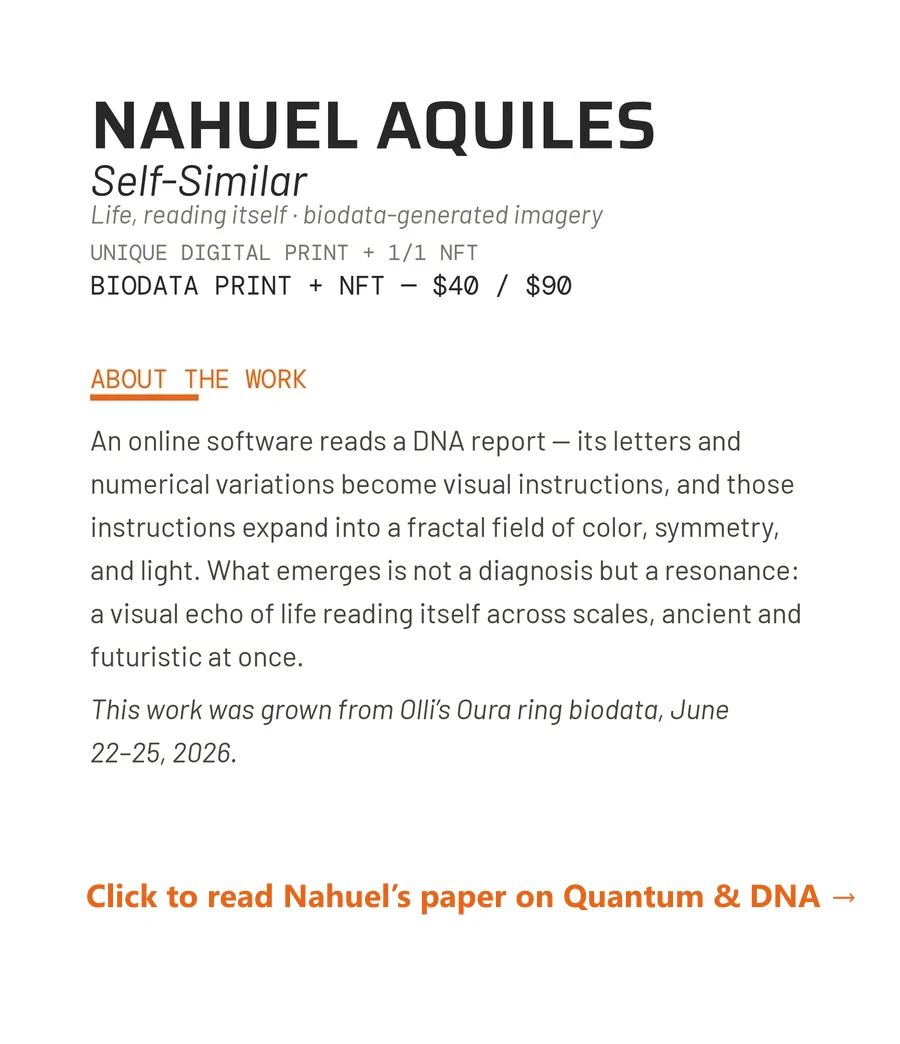
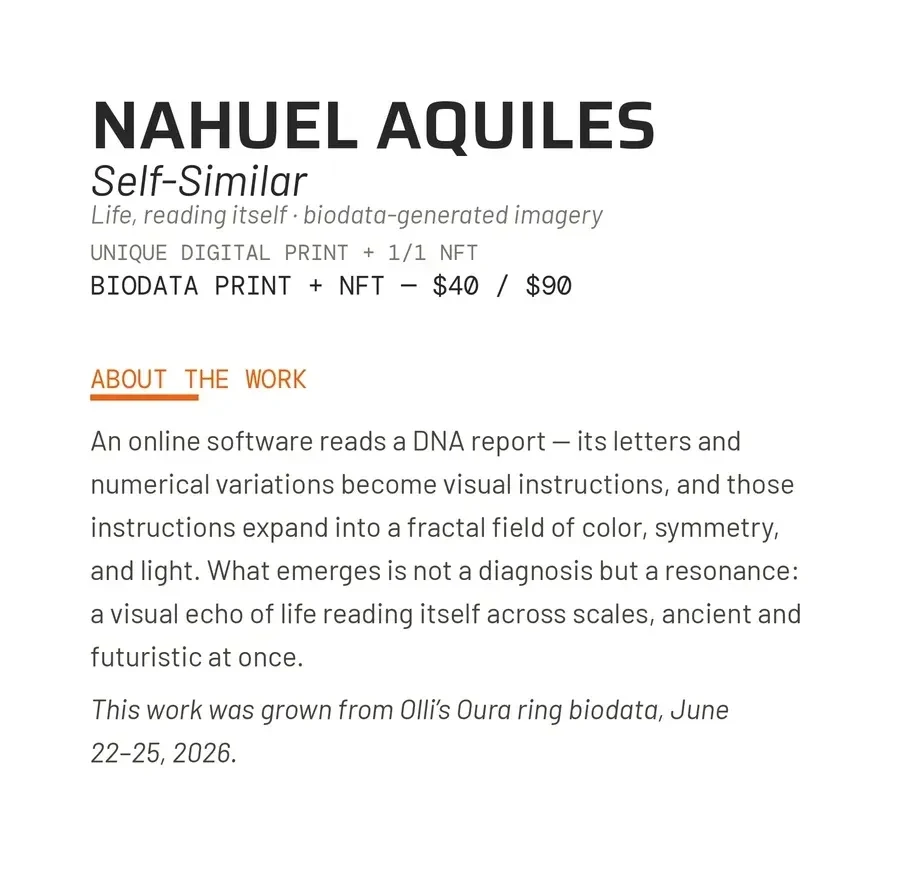
OURS Ledgerworks: crop the baked CTA off Nahuel's main placard
The asset carried its own bold 'Click to read Nahuel's paper on Quantum & DNA' line, doubling up with the raised card's appended thin CTA. Cropped off like the genpi placard's was - one standard 'Click to read' line remains. Placard cache-buster to v11.

Changed region(s): [[0.0933, 0.0931, 0.9022, 0.7759], [0.0933, 0.8069, 0.9333, 0.9]]

diff --git a/components/ours/LedgerworksSection.tsx b/components/ours/LedgerworksSection.tsx
@@ -16,7 +16,7 @@ import { EthPieceCheckout } from '@/components/storefront/EthPieceCheckout';
 const IMG_W = 2400;
 const IMG_H = 1528;
 const SCREEN = { x: 1069, y: 394, w: 246, h: 438 };
-const V = '?v=10';
+const V = '?v=11';
 const ZOOM = 2.34;                 // 10% less than before
 const LOUPE_W = '35%';             // 30% larger than before
 // every raised placard shares the manifesto's width (which puts the
